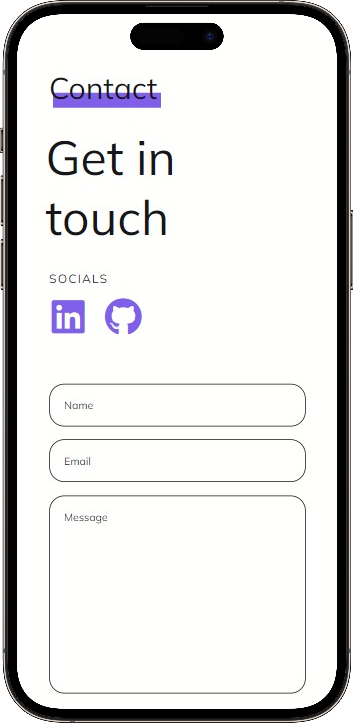
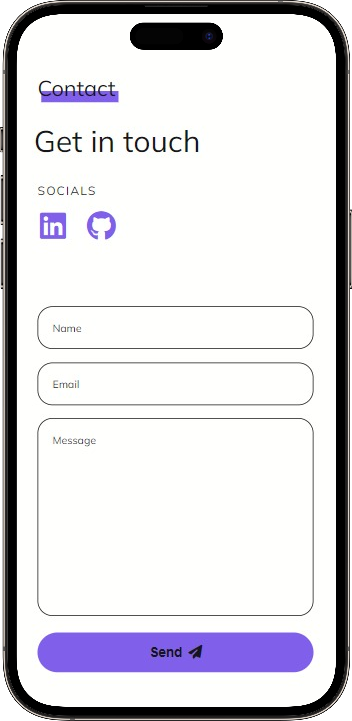
Improve mobile responsiveness & fix contact form notification
- Adjust font sizes and overall responsiveness for better mobile viewing.
- Update iPhone portfolio mockup to reflect new mobile styles.
- Fix bug in contact form notification that incorrectly displays
  'something went wrong' message upon successful email sending.

diff --git a/public/index.html b/public/index.html
@@ -5,7 +5,7 @@
     <meta name="viewport" content="width=device-width, initial-scale=1.0">
     <title>Michael Swan | Portfolio</title>
     <link rel="stylesheet" href="style.css">
-    <link rel="icon" type="image/png" href="images/interlocked chain.png" />
+    <link rel="icon" type="image/png" href="/images/interlocked chain.png" />
     <script src="https://kit.fontawesome.com/652dbeb7b5.js" crossorigin="anonymous"></script>
 </head>
 <body>
@@ -32,11 +32,11 @@
             <h1>
                 Computer Science |<br>University of 
                 <span id="cs-student-ct">Connecticut
-                    <img src="images/huskies logo.png" id="huskies-logo" alt="Uconn Huskies logo">
+                    <img src="/images/huskies logo.png" id="huskies-logo" alt="Uconn Huskies logo">
                 </span>
             </h1>
             <div class="actions">
-                <a href="images/Michael Swan - Resume.pdf" target="_blank" id="download-cv"><i class="fa-solid fa-download"></i>Download CV</a>
+                <a href="/images/Michael Swan - Resume.pdf" target="_blank" id="download-cv"><i class="fa-solid fa-download"></i>Download CV</a>
                 <div class="contact-icons">
                     <a href="https://www.linkedin.com/in/m-swan" target="_blank"><i class="fa-brands fa-linkedin"></i></a>
                     <a href="https://github.com/swamsy" target="_blank"><i class="fa-brands fa-github"></i></a>
@@ -69,8 +69,8 @@
                     <p class="description">Lorem ipsum dolor sit amet consectetur adipisicing elit. Explicabo rem perferendis eius! Distinctio hic modi velit impedit, incidunt sit recusandae laborum ad inventore veniam tenetur ipsa, sed in aliquid ipsam?</p>
                 </div>
                 <div class="right-image">
-                    <a href="#"><img src="images/Macbook Pro TBD Mockup.png" alt="Portfolio Image" class="macbook"></a>
-                    <a href="#"><img src="images/iPhone 14 Pro Max TBD Mockup.png" alt="iPhone 14 Pro Max Portfolio Mockup" class="iphone"></a>
+                    <a href="#"><img src="/images/Macbook Pro TBD Mockup.png" alt="MacBook Portfolio Mockup" class="macbook"></a>
+                    <a href="#"><img src="/images/iPhone 14 Pro Max TBD Mockup.png" alt="iPhone 14 Pro Max Portfolio Mockup" class="iphone"></a>
                 </div>
             </div>
             <div class="projects-content-container">
@@ -90,8 +90,8 @@
                     <p class="description">My first project in order to learn HTML, CSS, and JavaScript. It is a fully responsive website featuring my projects and a contact form, powered by Nodemailer.</p>
                 </div>
                 <div class="right-image">
-                    <a href="#"><img src="images/MacBook Pro Portfolio Mockup.png" alt="MacBook Portfolio Mockup" class="macbook"></a>
-                    <a href="#"><img src="images/iPhone 14 Pro Max Portfolio Contact Form Mockup.png" alt="iPhone 14 Pro Max Portfolio Mockup" class="iphone"></a>
+                    <a href="#"><img src="/images/MacBook Pro Portfolio Mockup.png" alt="MacBook Portfolio Mockup" class="macbook"></a>
+                    <a href="#"><img src="/images/iPhone 14 Pro Max Portfolio Contact Form Mockup.png" alt="iPhone 14 Pro Max Portfolio Mockup" class="iphone"></a>
                 </div>
             </div>
     </div>

diff --git a/public/style.css b/public/style.css
@@ -215,6 +215,7 @@ nav ul li a:hover {
     flex-wrap: wrap;
     list-style: none;
     padding: 0;
+    max-width: 90%;
 }
 
 .projects-content-container .left-text ul li {
@@ -510,38 +511,9 @@ body::-webkit-scrollbar-thumb {
 }
 
 /* MEDIA QUERIES */
-@media screen and (max-width: 400px) {
-    
-    /* HEADER */
-    .header-text h1 {
-        font-size: 1.5rem;
-    }
-
-    #huskies-logo {
-        margin-left: 0.6rem;
-        height: 2rem;
-    }
-
-    #download-cv {
-        font-size: 0.75rem;
-        margin-right: 0.35rem;
-        padding: 0.65rem 0.65rem;
-    }
-
-    .header-text .contact-icons a i {
-        font-size: 2.4rem;
-        margin-left: 0.8rem;
-    }   
-}
-
-@media screen and (max-width: 450px) {
-
-    #footer p {
-        font-size: 0.75rem;
-    }
-
-    #contact #contact-title {
-        margin-top: 0;
+@media screen and (max-width: 995px) {
+    #projects .description {
+        max-width: 100%;
     }
 }
 
@@ -560,7 +532,7 @@ body::-webkit-scrollbar-thumb {
     #download-cv {
         font-size: 1rem;
         margin-right: 0.5rem;
-        padding: 0.9rem 0.9rem;
+        padding: 0.85rem 1.1rem;
     }
 
     .header-text .contact-icons a i {
@@ -569,6 +541,10 @@ body::-webkit-scrollbar-thumb {
     }
 
     /* NAV BAR */
+    nav ul li a {
+        font-size: 0.8rem;
+    }
+
     .hamburger {
         display: block;
     }
@@ -603,12 +579,29 @@ body::-webkit-scrollbar-thumb {
     }
 
     /* PROJECTS */
+    #projects #projects-title {
+        font-size: 1.8rem;
+    }
+
     #projects .project-name {
         font-size: 2.5rem;
     }
 
     #projects .left-text .visit-site {
         margin-bottom: 1rem;
+    }
+
+    #projects .site-code {
+        margin-bottom: 1.2rem;
+    }
+
+    #projects .site-code .visit-site, #projects .site-code .see-code {
+        font-size: 1rem;
+        padding: 0.6rem 0.8rem;
+    }
+
+    #projects .site-code .visit-site {
+        margin-right: 1rem;
     }
 
     .iphone {
@@ -618,6 +611,18 @@ body::-webkit-scrollbar-thumb {
     }
 
     /* CONTACT */
+    #contact #contact-title {
+        font-size: 1.8rem;
+    }
+
+    #contact #get-in-touch {
+        font-size: 2.5rem;
+    }
+
+    .left-contact .contact-icons a i{
+        font-size: 2.5rem;
+    }
+
     #contact .contact-content-container {
       flex-direction: column;
     }
@@ -636,8 +641,50 @@ body::-webkit-scrollbar-thumb {
     }
 }
 
-@media screen and (max-width: 995px) {
-    #projects .description {
-        max-width: 100%;
+@media screen and (max-width: 450px) {
+
+    /* CONTACT */
+    #contact #contact-title {
+        margin-top: 0;
+    }
+
+    /* FOOTER */
+    #footer h2 {
+        font-size: 1.2rem;
+    }
+
+    #footer p {
+        font-size: 0.75rem;
+    }
+}
+
+@media screen and (max-width: 400px) {
+    
+    /* HEADER */
+    .header-text h1 {
+        font-size: 1.5rem;
+    }
+
+    #huskies-logo {
+        margin-left: 0.6rem;
+        height: 2rem;
+    }
+
+    #download-cv {
+        font-size: 0.75rem;
+        margin-right: 0.35rem;
+        padding: 0.65rem 0.9rem;
+    }
+
+    .header-text .contact-icons a i {
+        font-size: 2.2rem;
+        margin-left: 0.8rem;
+    }   
+
+    /* CONTACT */
+    #send-button {
+        font-size: 1rem;
+        padding: 0.8rem 0;
+        border-radius: 500px;
     }
 }

diff --git a/functions/contact.js b/functions/contact.js
@@ -36,7 +36,7 @@ const transporter = nodemailer.createTransport({
 
 exports.handler = async (event, context) => {
     if (event.httpMethod !== "POST") {
-      return { statusCode: 405, body: "Method Not Allowed" };
+      return {statusCode: 405, body: "Method Not Allowed"};
     }
 
     const body = JSON.parse(event.body);
@@ -53,13 +53,13 @@ exports.handler = async (event, context) => {
         console.log('Email sent: ' + info.response);
         return {
           statusCode: 200,
-          body: JSON.stringify({ status: 'success' }),
+          body: JSON.stringify({status: 'success'}),
         };
       } catch (error) {
         console.error(error);
         return {
           statusCode: 500,
-          body: JSON.stringify({ status: 'error' }),
+          body: JSON.stringify({status: 'error'}),
         };
       }
     };

diff --git a/public/app.js b/public/app.js
@@ -20,8 +20,8 @@ contactForm.addEventListener('submit', (e)=>{
     xhr.open('POST', '/.netlify/functions/contact');
     xhr.setRequestHeader('content-type', 'application/json');
     xhr.onload = function(){
-        console.log(xhr.responseText);
-        if(xhr.responseText == 'success'){
+        const response = JSON.parse(xhr.responseText);
+        if(response.status == 'success'){
             notification.classList.remove('hide');
             notification.style.backgroundColor = '#00C851';
             notificationMessage.innerHTML = 'Email sent!<i class="fa-solid fa-circle-check"></i>';
